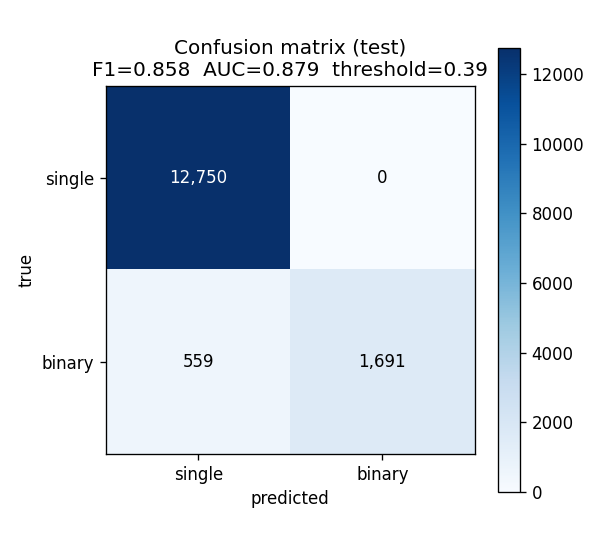
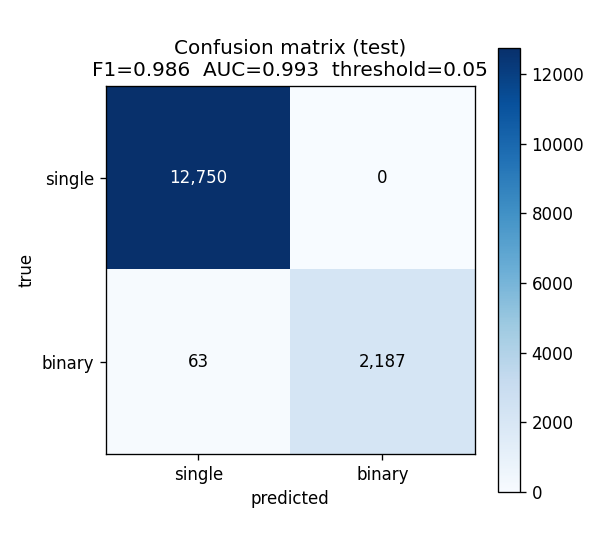
fix: Model 1 Simple -> Completed

diff --git a/models/model_1/Simple/train_model_1_simple.py b/models/model_1/Simple/train_model_1_simple.py
@@ -69,7 +69,8 @@ Run
 
 from __future__ import annotations
 
-import json
+import sys
+from contextlib import contextmanager
 from pathlib import Path
 
 import numpy as np
@@ -102,18 +103,66 @@ CSV_PATH = HERE / "Microlensing_Dataset_100000_15pct_400pts_I_Classification.csv
 MODEL_OUT = HERE / "model_1_simple.pt"
 HISTORY_PLOT = HERE / "training_history.png"
 CONFUSION_PLOT = HERE / "confusion_matrix.png"
+LOG_PATH = HERE / "training_log.txt"    # full console transcript of the run
 
 N_POINTS = 400          # light-curve length
 BATCH_SIZE = 256
-EPOCHS = 40
+EPOCHS = 60             # upper bound; early stopping usually ends it sooner
 LEARNING_RATE = 1e-3
 WEIGHT_DECAY = 1e-4
+LR_FACTOR = 0.5         # multiply LR by this when val AUC plateaus
+LR_PATIENCE = 4         # epochs without val-AUC gain before dropping LR
 TEST_SIZE = 0.15        # held-out test fraction
 VAL_SIZE = 0.15         # validation fraction (of the remaining train pool)
-PATIENCE = 8            # early-stopping patience (epochs without val-F1 gain)
+PATIENCE = 12           # early-stopping patience (epochs without val-AUC gain)
 SEED = 42
 
 DEVICE = torch.device("cuda" if torch.cuda.is_available() else "cpu")
+
+
+# --------------------------------------------------------------------------- #
+# Console transcript
+# --------------------------------------------------------------------------- #
+class _Tee:
+    """A stdout proxy that writes to the terminal AND a log file at once.
+
+    Every print() during the run therefore lands in training_log.txt as well,
+    so the full details (metrics, threshold, detection-efficiency table) can be
+    reviewed later without re-running. Flushes on every write so a killed run
+    still leaves a readable partial log.
+    """
+
+    def __init__(self, stream, file_handle) -> None:
+        self._stream = stream
+        self._file = file_handle
+
+    def write(self, data: str) -> int:
+        self._stream.write(data)
+        self._file.write(data)
+        self._stream.flush()
+        self._file.flush()
+        return len(data)
+
+    def flush(self) -> None:
+        self._stream.flush()
+        self._file.flush()
+
+
+@contextmanager
+def tee_output(log_path: Path):
+    """Mirror stdout AND stderr into ``log_path`` for the duration.
+
+    stderr is included so a crash traceback (or a library warning) lands in the
+    log too -- that is exactly the moment the transcript is most useful.
+    """
+    with open(log_path, "w", encoding="utf-8") as fh:
+        orig_out, orig_err = sys.stdout, sys.stderr
+        sys.stdout = _Tee(orig_out, fh)
+        sys.stderr = _Tee(orig_err, fh)
+        try:
+            yield
+        finally:
+            sys.stdout, sys.stderr = orig_out, orig_err
 
 
 # --------------------------------------------------------------------------- #
@@ -204,6 +253,9 @@ class LightCurveCNN(nn.Module):
 
     def __init__(self) -> None:
         super().__init__()
+        # Conv trunk only -- pooling is done in forward() so we can take BOTH the
+        # global average AND the global max. The two intermediate pools are MAX
+        # (not avg), so a sharp caustic spike survives the 400->100 downsampling.
         self.features = nn.Sequential(
             nn.Conv1d(2, 32, kernel_size=7, padding=3),   # 2 channels: mag + residual
             nn.BatchNorm1d(32),
@@ -218,11 +270,26 @@ class LightCurveCNN(nn.Module):
             nn.Conv1d(64, 128, kernel_size=3, padding=1),
             nn.BatchNorm1d(128),
             nn.ReLU(inplace=True),
-            nn.AdaptiveAvgPool1d(1),               # global average pool -> 128
         )
+        # Global average + global max, concatenated -> 256 features. Average pool
+        # alone (the previous head) diluted a localized anomaly over all 100
+        # positions -- a few-point caustic spike contributed ~1/100 of the pooled
+        # value and was effectively erased, which is why faint (1e-4..1e-3 mag)
+        # anomalies were missed. Max pooling keeps the height of the sharpest
+        # deviation regardless of WHERE on the curve it falls; average pooling
+        # still captures broad, smooth perturbations. Together they push the
+        # detection floor to fainter anomalies. (This does NOT revive the
+        # float-dust shortcut: a single lens has an exactly-zero residual channel,
+        # so its features are position-constant and max == avg; batch-norm scales
+        # the residual channels by the batch std set by real O(0.1) anomalies, so a
+        # ~1e-7 mag numerical wiggle stays ~1e-6 and cannot be thresholded apart
+        # from a true single lens without also firing on it. Verify via the
+        # detection-efficiency report: the < 1e-5 mag bin must stay near recall 0.)
+        self.avg_pool = nn.AdaptiveAvgPool1d(1)
+        self.max_pool = nn.AdaptiveMaxPool1d(1)
         self.classifier = nn.Sequential(
             nn.Flatten(),
-            nn.Linear(128, 64),
+            nn.Linear(256, 64),                    # 128 avg + 128 max
             nn.ReLU(inplace=True),
             nn.Dropout(0.3),
             nn.Linear(64, 1),                      # single logit
@@ -230,7 +297,8 @@ class LightCurveCNN(nn.Module):
 
     def forward(self, x: torch.Tensor) -> torch.Tensor:
         # x: (B, 2, 400)
-        x = self.features(x)
+        x = self.features(x)                       # (B, 128, 100)
+        x = torch.cat([self.avg_pool(x), self.max_pool(x)], dim=1)  # (B, 256, 1)
         return self.classifier(x).squeeze(1)       # (B,)
 
 
@@ -353,10 +421,22 @@ def main() -> None:
     optimizer = torch.optim.Adam(
         model.parameters(), lr=LEARNING_RATE, weight_decay=WEIGHT_DECAY
     )
+    # Drop the LR when val AUC stops improving so the model can settle into a
+    # finer minimum and crack the fainter anomalies instead of thrashing at a
+    # fixed step size (the previous run's val metric oscillated badly).
+    scheduler = torch.optim.lr_scheduler.ReduceLROnPlateau(
+        optimizer, mode="max", factor=LR_FACTOR, patience=LR_PATIENCE
+    )
 
     # ---- training loop with early stopping -------------------------------- #
+    # Selection & early stopping track val AUC, not F1-at-0.50. AUC is
+    # threshold-independent -- it measures how well the model RANKS binaries above
+    # singles across every cut-off, which is exactly "how faint an anomaly can it
+    # still separate". F1-at-0.50 was a noisy target (pos_weight shifts the
+    # probabilities, so a fixed 0.50 cut jumps around epoch to epoch); the actual
+    # decision threshold is chosen once, later, on the validation set.
     history = {"train_loss": [], "val_loss": [], "val_f1": [], "val_auc": []}
-    best_val_f1 = -1.0
+    best_val_auc = -1.0
     best_state = None
     epochs_no_improve = 0
 
@@ -376,6 +456,7 @@ def main() -> None:
         val_pred = (val_probs >= 0.5).astype(int)
         val_f1 = f1_score(val_true, val_pred, zero_division=0)
         val_auc = roc_auc_score(val_true, val_probs)
+        scheduler.step(val_auc)
 
         history["train_loss"].append(train_loss)
         history["val_loss"].append(val_loss)
@@ -385,17 +466,18 @@ def main() -> None:
         print(
             f"Epoch {epoch:02d}/{EPOCHS}  "
             f"train_loss={train_loss:.4f}  val_loss={val_loss:.4f}  "
-            f"val_F1={val_f1:.4f}  val_AUC={val_auc:.4f}"
+            f"val_F1={val_f1:.4f}  val_AUC={val_auc:.4f}  "
+            f"lr={optimizer.param_groups[0]['lr']:.1e}"
         )
 
-        if val_f1 > best_val_f1:
-            best_val_f1 = val_f1
+        if val_auc > best_val_auc:
+            best_val_auc = val_auc
             best_state = {k: v.cpu().clone() for k, v in model.state_dict().items()}
             epochs_no_improve = 0
         else:
             epochs_no_improve += 1
             if epochs_no_improve >= PATIENCE:
-                print(f"Early stopping at epoch {epoch} (best val_F1={best_val_f1:.4f})")
+                print(f"Early stopping at epoch {epoch} (best val_AUC={best_val_auc:.4f})")
                 break
 
     # ---- restore best & pick the decision threshold ------------------------ #
@@ -511,7 +593,19 @@ def main() -> None:
     fig2.tight_layout()
     fig2.savefig(CONFUSION_PLOT, dpi=120)
     print(f"Saved confusion matrix -> {CONFUSION_PLOT.name}")
+    print(f"Saved run transcript -> {LOG_PATH.name}")
 
 
 if __name__ == "__main__":
-    main()
+    # Mirror the whole run's console output into training_log.txt. On a crash the
+    # traceback is printed INSIDE the context (before stderr is restored) so it
+    # lands in the log too; we then exit non-zero without re-raising, which would
+    # otherwise print the same traceback a second time to the terminal.
+    import traceback
+
+    with tee_output(LOG_PATH):
+        try:
+            main()
+        except BaseException:
+            traceback.print_exc()
+            sys.exit(1)

diff --git a/webapp/app/model1.py b/webapp/app/model1.py
@@ -60,11 +60,14 @@ class LightCurveCNN(nn.Module):
             nn.Conv1d(64, 128, kernel_size=3, padding=1),
             nn.BatchNorm1d(128),
             nn.ReLU(inplace=True),
-            nn.AdaptiveAvgPool1d(1),
         )
+        # Concatenated global average + global max pooling (256 features): max
+        # preserves a localized caustic spike that average pooling would dilute.
+        self.avg_pool = nn.AdaptiveAvgPool1d(1)
+        self.max_pool = nn.AdaptiveMaxPool1d(1)
         self.classifier = nn.Sequential(
             nn.Flatten(),
-            nn.Linear(128, 64),
+            nn.Linear(256, 64),                    # 128 avg + 128 max
             nn.ReLU(inplace=True),
             nn.Dropout(0.3),
             nn.Linear(64, 1),
@@ -73,6 +76,7 @@ class LightCurveCNN(nn.Module):
     def forward(self, x: torch.Tensor) -> torch.Tensor:
         # x: (B, 2, 400)
         x = self.features(x)
+        x = torch.cat([self.avg_pool(x), self.max_pool(x)], dim=1)
         return self.classifier(x).squeeze(1)
 
 